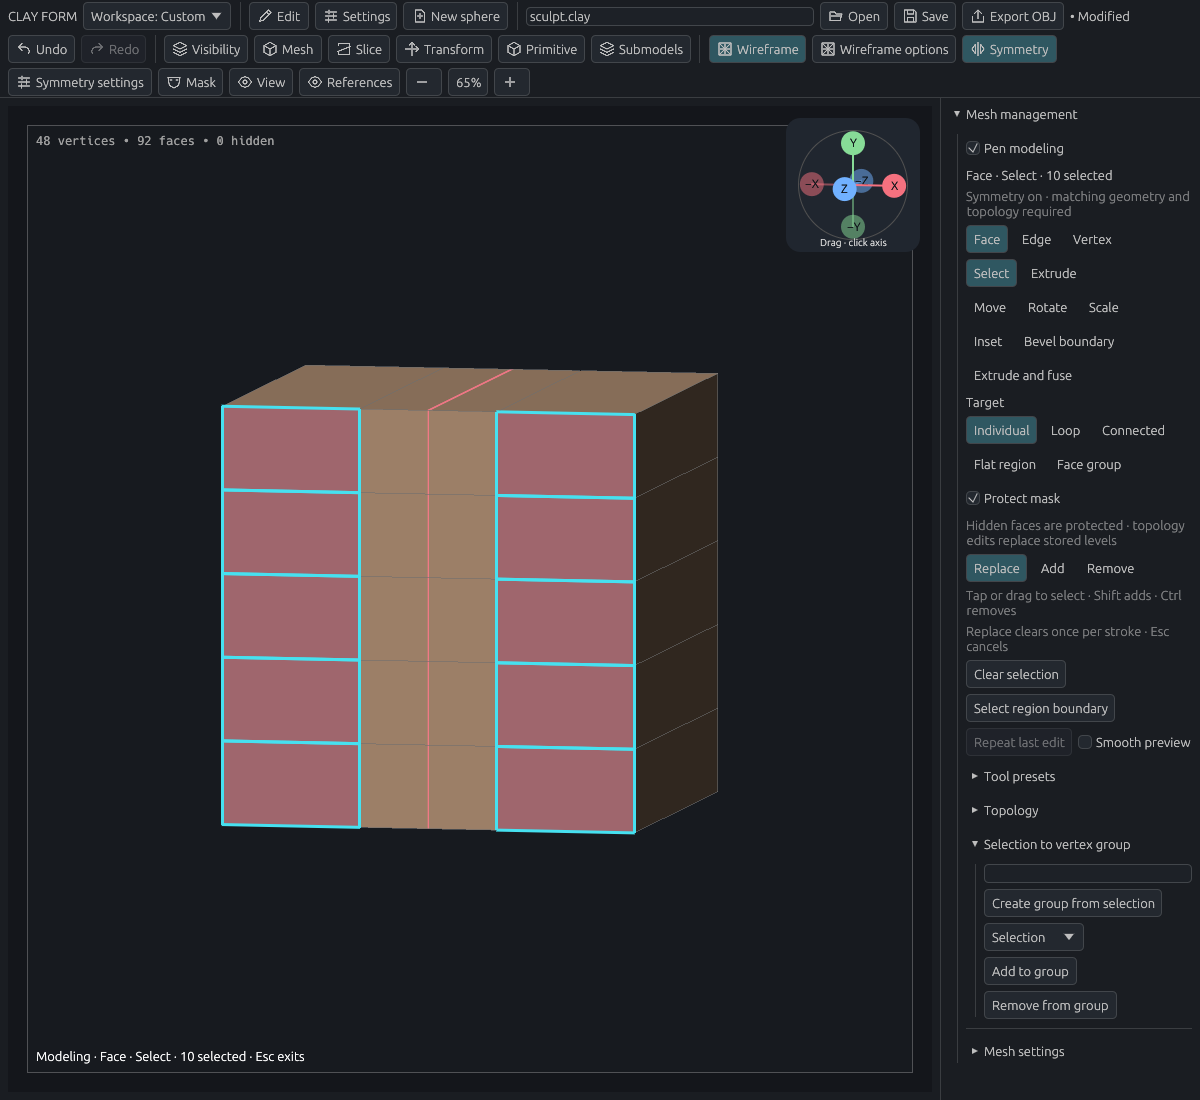
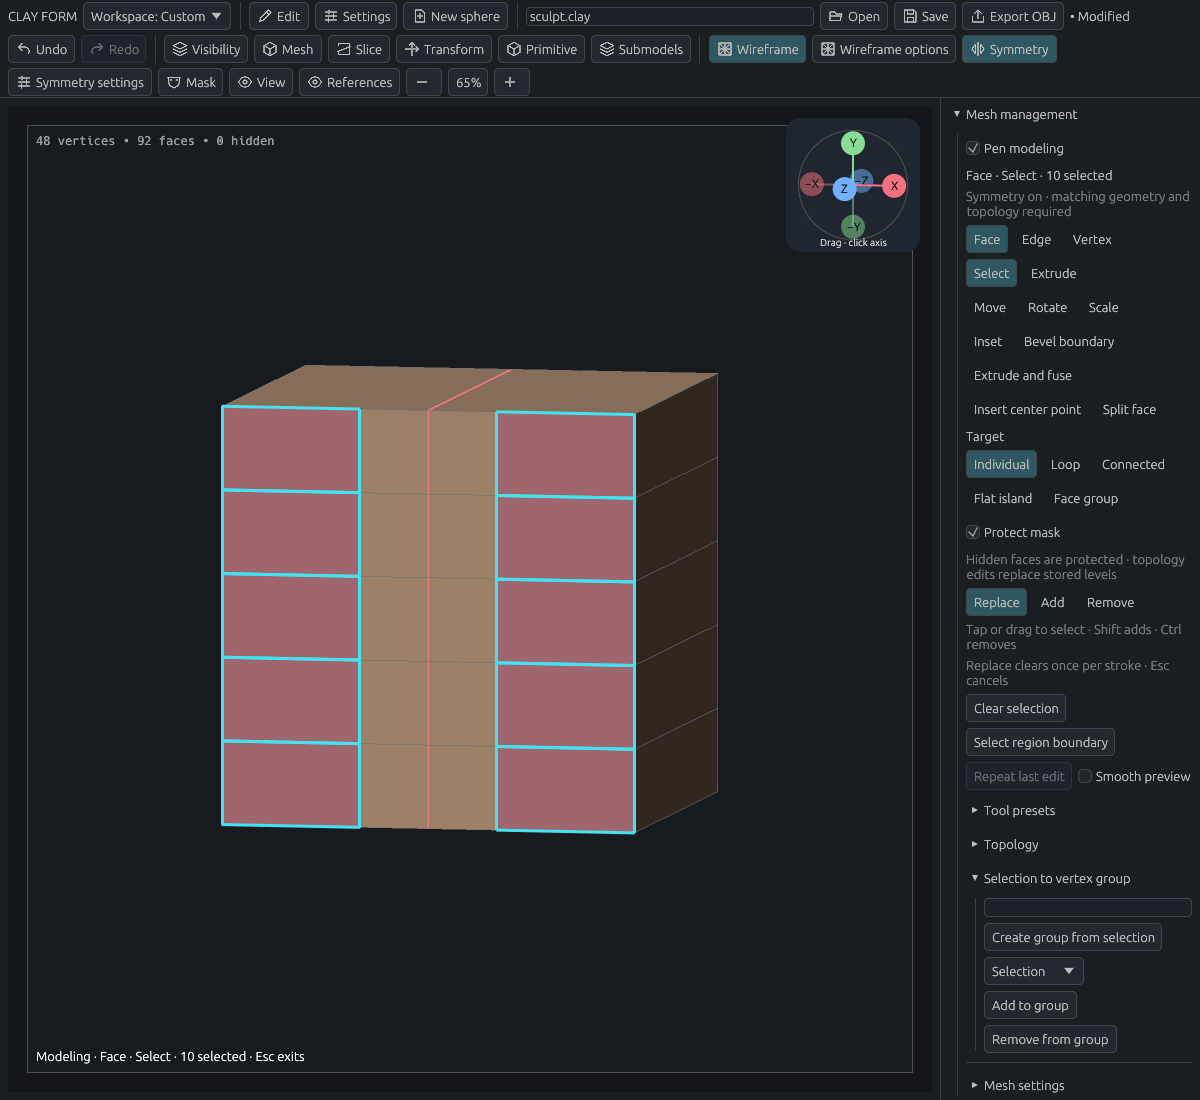
Document component construction and flat island angle controls

Changed region(s): [[0.8017, 0.34, 0.9867, 1.0]]

diff --git a/docs/guide/modeling.md b/docs/guide/modeling.md
@@ -45,7 +45,9 @@ Faces select entire quads rather than their rendering triangles. Changing compon
 
 ### Shared targets and component transforms
 
-The **Target** choices apply to selection and component edits. **Connected** follows connected visible faces, **Flat region** stops at changes of plane, **Face group** selects the visible polygons with the same face label, and **Boundary** follows an open boundary in Edge mode. Loop and parallel-edge targets remain available where applicable. An edit starting on an already selected component uses the current selection; otherwise it uses the hovered target. Hover previews the affected target before pressing.
+The **Target** choices apply to selection and component edits. **Connected** follows connected visible faces, **Flat island** follows connected faces within the chosen **Island angle** of the starting face, **Face group** selects the visible polygons with the same face label, and **Boundary** follows an open boundary in Edge mode. Loop and parallel-edge targets remain available where applicable. An edit starting on an already selected component uses the current selection; otherwise it uses the hovered target. Hover previews the affected target before pressing.
+
+**Island angle** ranges from 0° (flat faces) to 180°. Each face is compared with the original face normal, so a chain of small bends cannot gradually wrap the selection around a curved surface. Hidden faces stop the flood; disconnected surfaces are excluded. Hover previews the result as you adjust the slider. The angle applies to the next selection or edit target and is saved in tool presets.
 
 Choose **Move components**, **Rotate components**, or **Scale components** in any component mode. Choose X/Y/Z or a face region's Normal; Scale also supports Uniform. Drag up/down to adjust, release to apply, or Escape to cancel. Alternatively select components, enter Distance, Angle in degrees, or Scale factor, then **Apply amount**. Rotation/scaling use the selection center. The selection survives these edits. Symmetry reflects displacement and keeps seam vertices on the enabled symmetry planes. Hidden faces and, by default, masked vertices are protected. These edits currently replace stored subdivision levels; Undo restores them.
 
@@ -69,6 +71,36 @@ The highlighted rim stays on the dragged face even as the pen moves across other
 **Inset** adds a border of the chosen Width inside a flat region. **Individual faces** insets each face separately. **Bevel boundary** trims a flat region's exterior corners, creating a single chamfer band; each corner must have one exterior edge descending away from the region. This first bevel does not handle arbitrary edge networks or rounded multi-segment profiles. Widths that collapse narrow faces are rejected. Inset and bevel retain the cap selection for the next operation. New faces inherit their source region's face label; surviving weights and creases are retained.
 
 **Extrude and fuse** adds contact handling while pushing a single flat face inward. It can stop at the first compatible intermediate loop, remove the swept exterior strips and retain the moved cap. **Join matching faces** separately permits opening a tunnel when an opposing cap matches. **Snap range** is a fraction of the local edge length, independent of sculpt brush size. Compatibility still requires aligned corners and complete adjoining side strips; this does not cut arbitrary intersecting surfaces. Symmetry applies only when all copies can complete safely.
+
+### Construct from edges, points and face centers
+
+Choose a component mode to reveal its construction tools. Measured tools support numeric amounts, pen previews, Escape to cancel, tap repeat and one Undo per completed edit.
+
+| Mode | Tool | Controls and result |
+| --- | --- | --- |
+| Edge | Extrude edge | Drag up/down or set Distance. An open border extends into a quad strip. A surface edge creates a ridge with new side faces; hover near the desired adjacent face, or enable **Other adjacent side**, then press to lock that side. |
+| Edge | Split edge | Drag along the edge to place a new vertex. **Position** runs from 0 to 1, starting at the circled endpoint nearest the initial press; insertion stays just inside the endpoints. |
+| Edge | Collapse edge | Drag along the edge or choose **Marked end**, **Midpoint**, or **Other end**. This merges both endpoints at the chosen position. |
+| Vertex | Split point | Set Radius or drag up/down to replace a vertex with a ring and center patch. **Circularize ring**, **Triangulate center**, and **Crease ring** control the patch. |
+| Vertex | Extrude point | Set Distance or drag up/down to create a pointed protrusion along the averaged surface normal. **Base radius** controls its footprint independently; circularization and ring creasing are optional. |
+| Face | Insert center point | Tap a face to insert its center and connect it to every corner with triangles. |
+| Face | Split face | Tap to connect a new center to shared edge midpoints, producing quads inside each selected face. |
+
+**Insert center point** and **Split face** act on a tap even when Tap to repeat is disabled. Both also offer **Apply to selection**. New construction tools clear the component selection after committing; hover or select the new geometry for the next operation. Their buttons can be added to custom menus, shelves and shortcuts, and their settings save in tool presets.
+
+To turn a point into a tube base, use **Vertex → Split point**, then switch to **Face → Extrude** and drag the center patch outward. A three- or four-sided patch remains one selectable polygon unless Triangulate center is enabled; larger patches use center triangles, which can be selected together for region extrusion.
+
+![A pair of vertices split into creased patches with matching symmetry](../images/modeling-point-split.png)
+
+![The patches extruded into short tubes](../images/modeling-point-tube.png)
+
+![A surface edge extrusion preview showing new geometry before release](../images/modeling-edge-construction-preview.png)
+
+![Matching faces split into quads, with neighboring faces connected to the new edge midpoints](../images/modeling-face-split.png)
+
+Point construction requires closed, visible vertex neighborhoods. Selected points must not share a face, and the radius must be less than half the shortest incident edge. Surface-edge extrusion requires separate edge neighborhoods; open border chains can share endpoints. Interactive Collapse edge requires edges with separate endpoints; the **Topology → Collapse edges** command remains available for collapsing connected sets to their average position. Symmetry rejects conflicting endpoint or adjacent-side choices instead of applying only part of an edit.
+
+New edge points propagate to neighboring faces to keep the surface connected without cracks. Polygons with more than four corners are represented by triangles; neighboring faces can therefore become triangulated. Source masks, group weights, face labels and surviving creases are retained. Hidden faces and protected masks reject the complete operation. Component extrusion creates geometry but does not automatically fuse intersecting surfaces.
 
 ### Push through to make a tunnel
 
@@ -147,9 +179,9 @@ Selection previews show the matching components. Symmetry copies of an edit comm
 
 ### Keep useful tool setups and inspect the smooth result
 
-Expand **Tool presets**, enter a name, then **Save tool preset**. Each preset stores component mode, action, target, axis, amount, loop count, contact options and protection/preview settings. **Use …** restores that setup without changing geometry. Right-click a preset to add it to a custom menu or shelf, or assign a shortcut. Presets save in application preferences, independently of the project. Deleting one leaves any old shelf entry unavailable; its identifier is never reused.
+Expand **Tool presets**, enter a name, then **Save tool preset**. Each preset stores component mode, action, target, axis, amount, loop count, flat-island angle, component-construction options, contact options and protection/preview settings. **Use …** restores that setup without changing geometry. Right-click a preset to add it to a custom menu or shelf, or assign a shortcut. Presets save in application preferences, independently of the project. Deleting one leaves any old shelf entry unavailable; its identifier is never reused.
 
-**Tap to repeat** is on by default for Extrude, Extrude and fuse, Inset, Bevel boundary, Move, Rotate, Scale and Slide loop. Drag to establish an amount, then tap another target to apply the displayed amount and current options. Each measured tool remembers its amount during the session, including when switching tools. Tapping a selected component applies to that selection; tapping elsewhere uses the hovered target. You can also enter an amount before the first tap. Small pen movements within three screen pixels count as a tap; once you drag farther, returning to the starting point does not trigger repeat. Escape cancels, and each completed tap is one Undo. Turn **Tap to repeat** off for drag-only editing; the toggle can be added to menus/shelves or shortcuts and is saved in tool presets. Select keeps its tap/paint behavior, and a Loop cut tap remains centered.
+**Tap to repeat** is on by default for Extrude, Extrude and fuse, Inset, Bevel boundary, Move, Rotate, Scale, Slide loop and the measured edge/point construction tools. Drag to establish an amount, then tap another target to apply the displayed amount and current options. Each measured tool remembers its amount during the session, including when switching tools. Tapping a selected component applies to that selection; tapping elsewhere uses the hovered target. You can also enter an amount before the first tap. Small pen movements within three screen pixels count as a tap; once you drag farther, returning to the starting point does not trigger repeat. Escape cancels, and each completed tap is one Undo. Turn **Tap to repeat** off for drag-only editing; the toggle can be added to menus/shelves or shortcuts and is saved in tool presets. Select keeps its tap/paint behavior, and a Loop cut tap remains centered.
 
 ![An inset repeated by tapping another target, with matching symmetry](../images/modeling-tap-repeat.png)
 

diff --git a/docs/architecture.md b/docs/architecture.md
@@ -197,12 +197,16 @@ Edge operations use the cancellable mesh worker and one undo transaction; unchan
 
 `sculpt/modeling.rs` builds extrusion and loop-cut results without changing the input mesh. Polygon indices come from the shared quad-aware polygon view. Extrusion duplicates the selected flat region, adds walls only on its boundary, and optionally replaces a single translated cap with an opposite-wound boundary match. At a matching-face join, `sculpt/modeling/join.rs` follows connected coplanar side patches and verifies full, reversed perimeter coverage before cancelling coincident walls. It reuses the patch boundary vertices, interpolates additional depth vertices on free wall paths, and connects unequal boundary spacing with triangles when necessary. Adjacent holes therefore merge, and boundary cuts open notches without leaving overlapping side strips or T junctions. `sculpt/modeling/loops.rs` propagates oriented opposite edges through quads and shares interpolated vertices for 1–16 evenly spaced cuts. The seed direction sets the slide parameter consistently around a closed ring. Both preserve interpolated masks/group weights, face labels, hidden state, and surviving creases.
 
-`viewport/modeling.rs` owns revision-bound component selection, extrusion drafts, and loop-cut drafts. A loop press latches the seed edge; ray/axis projection maps drag travel onto its parameter. Taps stay centered, wheel input adjusts the count, and preview segments are drawn over the unchanged surface until release. `viewport/modeling/selection.rs` keeps selection strokes in a private draft, samples coalesced pen paths, and latches Replace/Add/Remove at pen-down. Release commits only selection state; cancellation discards the draft. Loop targeting uses the nearest edge of a face for direction. `sculpt/modeling/selection.rs` follows opposite edges through visible quads for face loops and parallel edge rings, stopping at hidden/non-quad faces and non-manifold branches. Picking uses the active visible surface; vertex/edge targets use screen-space tolerance. The renderer shows a draft mesh while picking remains bound to the original surface. `document/modeling.rs` checks the captured revision and commits one geometry snapshot on release; no preview touches document history. Component group assignment reuses existing whole-quad group labeling with a temporary mask on a private geometry copy.
+`viewport/modeling.rs` owns revision-bound component selection, extrusion drafts, and loop-cut drafts. A loop press latches the seed edge; ray/axis projection maps drag travel onto its parameter. Taps stay centered, wheel input adjusts the count, and preview segments are drawn over the unchanged surface until release. `viewport/modeling/selection.rs` keeps selection strokes in a private draft, samples coalesced pen paths, and latches Replace/Add/Remove at pen-down. Release commits only selection state; cancellation discards the draft. Loop targeting uses the nearest edge of a face for direction. `sculpt/modeling/selection.rs` follows opposite edges through visible quads for face loops and parallel edge rings, stopping at hidden/non-quad faces and non-manifold branches. Picking uses the active visible surface; vertex/edge targets use screen-space tolerance. The renderer shows a draft mesh while picking remains bound to the original surface. `document/modeling.rs` checks the captured revision and commits one geometry snapshot on release; no preview touches document history. Face component group assignment carries exact polygon IDs separately from vertex weights, so shared corners cannot label unselected neighboring faces. Edge and vertex assignments retain the mask-based weighting path on a private geometry copy.
 
 `sculpt/modeling/dissolve.rs` validates complete nonbranching quad loops, merges incident face patches, removes their redundant vertices, and reconnects boundary crease paths. Partial, crossing, hidden, border, or face-label-conflicting selections fail before commit. `sculpt/modeling/symmetry.rs` constructs bijective vertex/polygon maps for the enabled mirror and radial transforms using a scale-relative spatial tolerance and cyclic winding checks. The viewport caches correspondence by display revision and symmetry settings. Selections expand through these maps; extrusion partitions coplanar regions, loop cuts combine oriented parameters before building a shared quad grid, and dissolve unions corresponding edge sets. Result correspondence is validated before committing symmetric topology changes. A mismatch cancels the whole operation, never just one symmetry side.
 
 
 The expanded modeling workflow shares component/region targets between selection and edits. `sculpt/modeling/transform.rs` transforms selected vertices, propagates displacement through the exact symmetry maps (averaging seam stabilizers), and verifies protected source polygons survive unchanged. `construction.rs` implements connected/individual extrusion, planar inset and exterior boundary chamfers; `contact.rs` finds compatible intermediate cross-sections and reuses swept-wall cancellation. `topology.rs` implements complete-loop sliding, deletion, boundary filling/bridging, diagonal connection, edge splitting and component merging. Concave planar fills and split polygons use earcut triangulation. These are bounded topology operations, not general intersection detection or Boolean repair.
+
+`sculpt/modeling/components.rs` implements edge extrusion/split/collapse, point rings/protrusions, and face-center construction on private meshes. Edge orientation comes from the pressed endpoint and the adjacent face nearest the press anchor; symmetry maps that orientation and rejects conflicting seam choices. Shared edge insertions propagate to neighboring polygons. A centroid fan preserves every boundary segment when a resulting polygon exceeds four corners, including collinear split points. Point construction orders a closed vertex fan before replacing corners with a shared ring. Every result validates manifold topology and symmetry correspondence, then passes the common mask/visibility protection check. New component topology clears selection because source component indices no longer describe the result.
+
+Flat-island targets flood connected visible faces against the seed normal, using a 0–180° angle in `ModelingOptions`; they do not accumulate neighboring normal changes. Selection strokes capture that angle at pen-down. Construction options and the flat angle have serde defaults so older preferences still load.
 
 `viewport/modeling/edit.rs` owns measured drafts, their actual snapped amounts, cap-selection retention, and repeat. Measured gestures latch movement beyond three screen pixels: a release without a drag applies the visible settings when tap repeat is enabled, while a real drag never falls back to repeat. Tap extrusion uses the same measured result/commit path as numeric extrusion. Source/result polygon ordering supplies cap correspondence for construction; operations that remove caps clear it. Geometry-preserving edits retain component indices. One smooth preview is cached by document revision, capped at 20,000 source triangles and rendered independently of the picking cage. Tool presets store validated `ModelingOptions` under monotonic IDs in `Preferences`, preserving existing project formats. Presets have stable `Action` identities shared by buttons, shelves and shortcuts; loading a preset never edits document geometry.
 

diff --git a/docs/roadmap.md b/docs/roadmap.md
@@ -161,28 +161,23 @@ The interaction model is **Component → Action → Target → Options**. Compon
 
 Ordinary extrusion, contact fusion, vertex welding and loop dissolution have different meanings. Contact fusion gets a visible snap distance; geometric matching uses a separate conservative tolerance. Increasing tolerance does not make incompatible topology safe. Face labels describe polygon regions; weighted vertex groups remain a distinct selection/weighting concept even where they share existing storage.
 
-#### Milestone 5: construct from edges and points — planned, not shipped
+#### Milestone 5: construct from edges and points — implemented
 
-The first four milestones do not cover all of the basic component construction actions. The follow-up documentation audit identifies these gaps:
+| Workflow | Delivered behavior |
+| --- | --- |
+| Collapse an edge | Explicit endpoint/midpoint destination, numeric fraction, marked endpoint and pen preview; connected-set collapse remains a separate topology command |
+| Split an edge | Drag insertion along the edge or enter a fraction; neighboring faces receive matching vertices |
+| Extrude an edge | Extend an open border with a quad strip, or build a surface ridge with a visible adjacent-side choice locked at pen-down |
+| Extrude a point | Build a pointed protrusion with independent base radius, averaged-normal height, circularization and ring creasing |
+| Split a point into a patch | Replace a closed vertex fan with a ring and center patch; radius, circularization, triangulation and crease controls; patch can be extruded into a tube |
+| Add topology inside a face | Center-point insertion and quad-preserving face split; shared edge splits propagate into neighbors without T-junctions |
+| Angle-based flat islands | Select connected visible faces within 0–180° of the first face normal, with hover feedback and a preset-compatible slider |
 
-| Workflow | Current implementation | Next deliverable |
-| --- | --- | --- |
-| Collapse an edge | Selected connected edges collapse to their average position | Explicit endpoint or midpoint destination, preview and direct pen targeting |
-| Split an edge | Midpoint insertion, with adjacent polygons triangulated as needed | Drag the insertion position; preview the resulting connections |
-| Extrude an edge | Missing | Extend an open border with new faces; construct from a surface edge with a visible, locked choice of adjacent side |
-| Extrude a point | Missing | Create a local protrusion with new faces, rather than only moving existing geometry |
-| Split a point into a patch | Missing | Expand a vertex into a closed ring and center patch; control radius and center topology, with optional circularization and ring creasing |
-| Add topology inside a face | Opposite quad corners can be connected | Center-point insertion and quad-preserving face split; propagate shared edge splits to avoid T-junctions |
+These tools reuse numeric input, tap repeat, presets, mask protection, exact face labels, atomic symmetry and one-step Undo. Directional actions identify the chosen side or endpoint before contact and retain it throughout the stroke. Face-center actions are direct taps. New component construction clears selection after committing. Unsupported overlapping selections reject atomically; point rings require closed visible fans and a radius below half the shortest incident edge. Larger polygons are represented by triangles, including neighboring faces that need new edge points. These operations do not perform intersection detection or Boolean fusion.
 
-external software vendor's Edge Actions distinguish collapse, extrusion and split. Edge extrusion generates new geometry and uses cursor position to choose direction; edge split supports adjusting the new point along the edge. Our midpoint commands cover only part of those workflows.
+Geometry and controller tests cover closed surfaces, border extension, point patches and tube extrusion, edge positions, attributes, symmetry, masks, cancellation, tap repeat, Undo and preset compatibility. The rendered exercise uses the actual controls for a symmetric creased point patch, tube extrusion, surface-edge preview and face split. See [the component construction guide](guide/modeling.md#construct-from-edges-points-and-face-centers) for controls and limits.
 
-The closest match to turning one vertex into a multi-sided face is **Point Split**, which creates a circular patch around the clicked vertex. Its center, ring creasing and circularization options differ by target. **Point Extrude** produces a pointed protrusion and uses the nearby topology to choose its direction. See Point Actions. This should be a useful editable patch in Clay Form; it does not require introducing a native n-gon mesh representation.
-
-Polygon Actions distinguish Insert Point (center joined to corners) from Split (center joined to edge midpoints, maintaining quads). Both are currently missing.
-
-Deliver these as one component-construction workflow. Reuse the existing Action/Target controls, numeric input, tap repeat, presets, mask protection, exact face labels, atomic symmetry and one-step Undo. Directional actions must visibly identify the chosen side before contact and retain it throughout the stroke. Point rings must remain conforming to adjacent faces; unsupported overlapping selections must be rejected atomically.
-
-Acceptance exercise: extend a border into a strip, extrude a surface edge into a ridge, adjust and collapse an edge to an explicit endpoint, split a vertex into a circular patch and extrude it into a tube, then subdivide a neighboring face without cracks. Exercise matching symmetry, masks, cancellation, repeat, group boundaries, Undo and project round trips. This is a new planned milestone, not a claim of current support.
+The documentation audit used external software vendor's Edge Actions, Point Actions and Polygon Actions to identify missing construction workflows. Clay Form exposes explicit modes and visible values rather than duplicating modifier-dependent behavior.
 
 #### Research informing the design
 

diff --git a/docs/images/README.md b/docs/images/README.md
@@ -43,8 +43,8 @@ See [Development](../development.md#update-guide-screenshots) for prerequisites 
 | `modeling-paint-selection.png`, `modeling-face-loop.png`, `modeling-edge-ring.png`, `modeling-edge-loop.png` | [Paint selection and loop patterns](../guide/modeling.md#select-faces-edges-or-vertices) | `modeling_selection_offscreen_review` |
 | `modeling-symmetry-selection.png`, `modeling-symmetry-extrude.png`, `modeling-dissolve-before.png`, `modeling-dissolve-after.png` | [Symmetry and dissolving loops](../guide/modeling.md#dissolve-selected-loops) | `modeling_symmetry_dissolve_offscreen_review` |
 | `modeling-tap-repeat.png`, `modeling-milestone-inset.png`, `modeling-milestone-smooth.png`, `modeling-milestone-preset.png` | [Integrated construction, presets and smooth preview](../guide/modeling.md#keep-useful-tool-setups-and-inspect-the-smooth-result) | `modeling_milestones_offscreen_review` |
-
 | `modeling-face-group-gap.png` | [Exact face selection groups](../guide/modeling.md#save-a-component-selection-as-a-vertex-group) | `modeling_face_group_gap_offscreen_review` |
+| `modeling-point-split.png`, `modeling-point-tube.png`, `modeling-edge-construction-preview.png`, `modeling-face-split.png` | [Edge, point and face-center construction](../guide/modeling.md#construct-from-edges-points-and-face-centers) | `modeling_component_construction_offscreen_review` |
 
 ## Example assets
 
